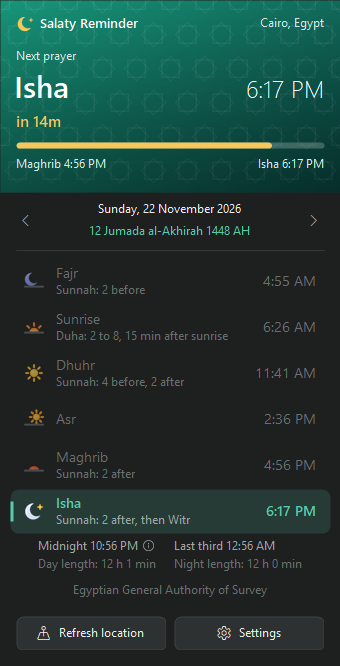
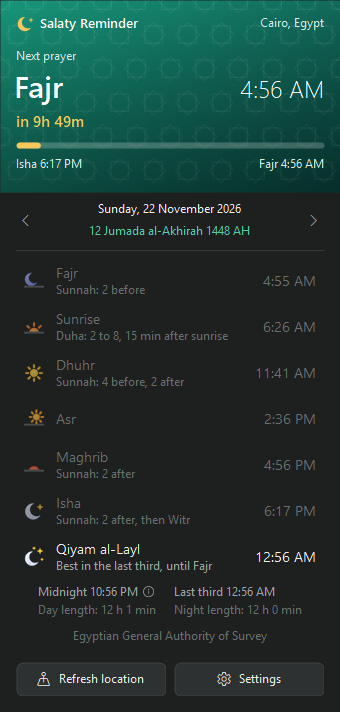
Salaty Reminder 1.6.7: Qiyam al-Layl on the card

diff --git a/src/SalatyReminder/UI/Styling/Art.cs b/src/SalatyReminder/UI/Styling/Art.cs
@@ -233,7 +233,14 @@ static class Art
     /// Small coloured picture per prayer: the sun's height over a horizon, or the moon at night.
     /// <paramref name="faded"/> draws it see-through for a prayer that has passed.
     /// </summary>
-    public static void PrayerGlyph(Graphics g, Prayer p, RectangleF box, bool dark, bool faded, Color line)
+    public static void PrayerGlyph(Graphics g, Prayer p, RectangleF box, bool dark, bool faded, Color line) =>
+        Glyph(g, p, box, dark, faded, line);
+
+    /// <summary>Qiyam al-Layl: a crescent in a sky of stars, drawn like the prayer pictures.</summary>
+    public static void QiyamGlyph(Graphics g, RectangleF box, bool dark, bool faded, Color line) =>
+        Glyph(g, null, box, dark, faded, line);
+
+    static void Glyph(Graphics g, Prayer? p, RectangleF box, bool dark, bool faded, Color line)
     {
         // At 20px, thin rays and small discs drawn straight onto the card come out jagged, and a gradient
         // fill doesn't antialias its own edge. Drawing at 4x and scaling down smooths every edge.
@@ -255,7 +262,7 @@ static class Art
     }
 
     /// <summary>Draws one prayer picture; <paramref name="k"/> is the supersampling factor, for stroke widths.</summary>
-    static void DrawPrayer(Graphics g, Prayer p, RectangleF box, bool dark, Color line, float k)
+    static void DrawPrayer(Graphics g, Prayer? p, RectangleF box, bool dark, Color line, float k)
     {
         var st = g.Save();
         g.SmoothingMode = SmoothingMode.AntiAlias;
@@ -327,6 +334,12 @@ static class Art
                 break;
             case Prayer.Isha:
                 Moon(box, MoonLight, MoonShade, true);
+                break;
+            case null: // Qiyam al-Layl: the moon lower down, with stars spread over the sky
+                Moon(new RectangleF(ox, oy + n * 0.12f, n * 0.88f, n * 0.88f), MoonLight, MoonShade, false);
+                Star(g, new PointF(ox + n * 0.80f, oy + n * 0.20f), n * 0.15f, n * 0.05f, StarGold);
+                Star(g, new PointF(ox + n * 0.50f, oy + n * 0.06f), n * 0.09f, n * 0.03f, StarGold);
+                Star(g, new PointF(ox + n * 0.90f, oy + n * 0.62f), n * 0.08f, n * 0.028f, StarGold);
                 break;
         }
         g.Restore(st);

diff --git a/src/SalatyReminder/UI/Card/PrayerCard.cs b/src/SalatyReminder/UI/Card/PrayerCard.cs
@@ -8,7 +8,7 @@ sealed class PrayerCard : Form
     const int W = 340, HeaderH = 192;
     float RowH => app.S.ShowSunnah ? 46 : 38;
     float NightH => app.S.ShowNightTimes ? 40 : 0;
-    int H => (int)(258 + RowH * 6 + NightH + 92);
+    int H => (int)(258 + RowH * 7 + NightH + 92);
 
     readonly SalatyApp app;
     readonly System.Windows.Forms.Timer tick = new() { Interval = 1000 };
@@ -321,7 +321,7 @@ sealed class PrayerCard : Form
             Draw(g, L.T("BackToToday"), fLink, accent, rToday, center: true);
         }
 
-        // ---- Six times for the viewed day ----
+        // ---- Six times for the viewed day, then Qiyam al-Layl ----
         bool nextIsTomorrow = at.Date > now.Date;
         bool ramadanDay = st.RamadanMode && Ramadan.IsRamadan(day, st.HijriAdjust);
         float y = 258;
@@ -356,6 +356,22 @@ sealed class PrayerCard : Form
             }
             else Draw(g, L.PrayerName(p, t), f, c, Box(56, y, 160, rh));
             Draw(g, L.Time(t, st.Use24h), f, c, Box(220, y, W - 244, rh), far: true);
+            y += rh;
+        }
+
+        // Qiyam al-Layl after Isha: a voluntary prayer, so it is never the next prayer and has no reminder.
+        // Its time is the start of the night's last third, the best part of it.
+        {
+            var qt = app.NightAfter(day).LastThird;
+            float rh = RowH;
+            Art.QiyamGlyph(g, Box(24, y + rh / 2 - 10, 20, 20), dark, false, dim);
+            if (st.ShowSunnah)
+            {
+                Draw(g, L.T("Qiyam"), fRow, fg, Box(56, y + 5, 170, 20));
+                Draw(g, L.T("QiyamSub"), fTiny, dim, Box(56, y + 24, 200, 16));
+            }
+            else Draw(g, L.T("Qiyam"), fRow, fg, Box(56, y, 160, rh));
+            Draw(g, L.Time(qt, st.Use24h), fRow, fg, Box(220, y, W - 244, rh), far: true);
             y += rh;
         }
 

diff --git a/src/SalatyReminder/Localization/Strings.cs b/src/SalatyReminder/Localization/Strings.cs
@@ -17,6 +17,8 @@ public static class L
         ["Asr"] = ("Asr", "العصر"),
         ["Maghrib"] = ("Maghrib", "المغرب"),
         ["Isha"] = ("Isha", "العشاء"),
+        ["Qiyam"] = ("Qiyam al-Layl", "قيام الليل"),
+        ["QiyamSub"] = ("Best in the last third, until Fajr", "أفضله في الثلث الأخير حتى الفجر"),
         ["Now"] = ("now", "الآن"),
         ["TimeToPray"] = ("Time to pray", "حان وقت الصلاة"),
         ["NotifTitle"] = ("It's time for {0}", "حان الآن موعد صلاة {0}"),

diff --git a/README.md b/README.md
@@ -32,6 +32,7 @@ reminds you before it, plays the adhan, and speaks both English and Arabic.
 - **Prayer card.** Click the widget for all six times with an icon for each in the colours of the sky, a progress bar from the last prayer to the next, the Gregorian and Hijri dates, and the sunnah rawatib for each prayer.
 - **Any day, not just today.** Step through days with the arrows, mouse wheel or arrow keys, or open the calendar (with Hijri days under each date) and jump anywhere: click its title to pick a month or a year directly.
 - **Islamic occasions.** The calendar marks the Islamic New Year, Ashura, the start of Ramadan, both Eids and the Day of Arafah in gold and the white days in teal, and names every occasion and sunnah fast (Mondays, Thursdays, six of Shawwal, the first ten of Dhu al-Hijjah, the last ten nights) when you point at a day.
+- **Qiyam al-Layl.** A row after Isha at the start of the last third of the night, the best time for it.
 - **Night times.** Midnight and the start of the last third of the night, for Qiyam, under the prayer list. This is the Islamic midnight, halfway from Maghrib to Fajr rather than 12:00; the "i" beside it says so. Below them, the length of the day (Fajr to Maghrib) and of the night (Maghrib to Fajr).
 - **Reminders.** A notification at prayer time, an early heads-up a few minutes before, a flashing widget, and an optional adhan (a built-in recording or your own MP3/WAV/OGG file). Also: Surat Al-Kahf on Friday morning and Jumu'ah 45 minutes ahead, the morning and evening adhkar, and (if you turn it on) a reminder the evening before a sunnah fast.
 - **Automatic location.** Uses Windows location, falls back to your IP address, or pick any city by name.

diff --git a/CHANGELOG.md b/CHANGELOG.md
@@ -3,6 +3,11 @@
 All notable changes to Salaty Reminder are listed here.
 The format follows [Keep a Changelog](https://keepachangelog.com/en/1.1.0/) and versions follow [Semantic Versioning](https://semver.org/).
 
+## [1.6.7] - 2026-11-22
+
+### Added
+- Qiyam al-Layl on the card, after Isha, at the start of the night's last third, with a starry moon icon. It is voluntary, so it never becomes the next prayer and has no reminder.
+
 ## [1.6.6] - 2026-11-22
 
 ### Fixed
@@ -161,6 +166,7 @@ The format follows [Keep a Changelog](https://keepachangelog.com/en/1.1.0/) and 
 - Automatic updates from GitHub Releases with SHA-256 verification.
 - Windows 10 support: the task-button strip is shrunk to make room for the widget.
 
+[1.6.7]: https://github.com/medovanx/salaty-reminder/releases/tag/v1.6.7
 [1.6.6]: https://github.com/medovanx/salaty-reminder/releases/tag/v1.6.6
 [1.6.5]: https://github.com/medovanx/salaty-reminder/releases/tag/v1.6.5
 [1.6.4]: https://github.com/medovanx/salaty-reminder/releases/tag/v1.6.4
